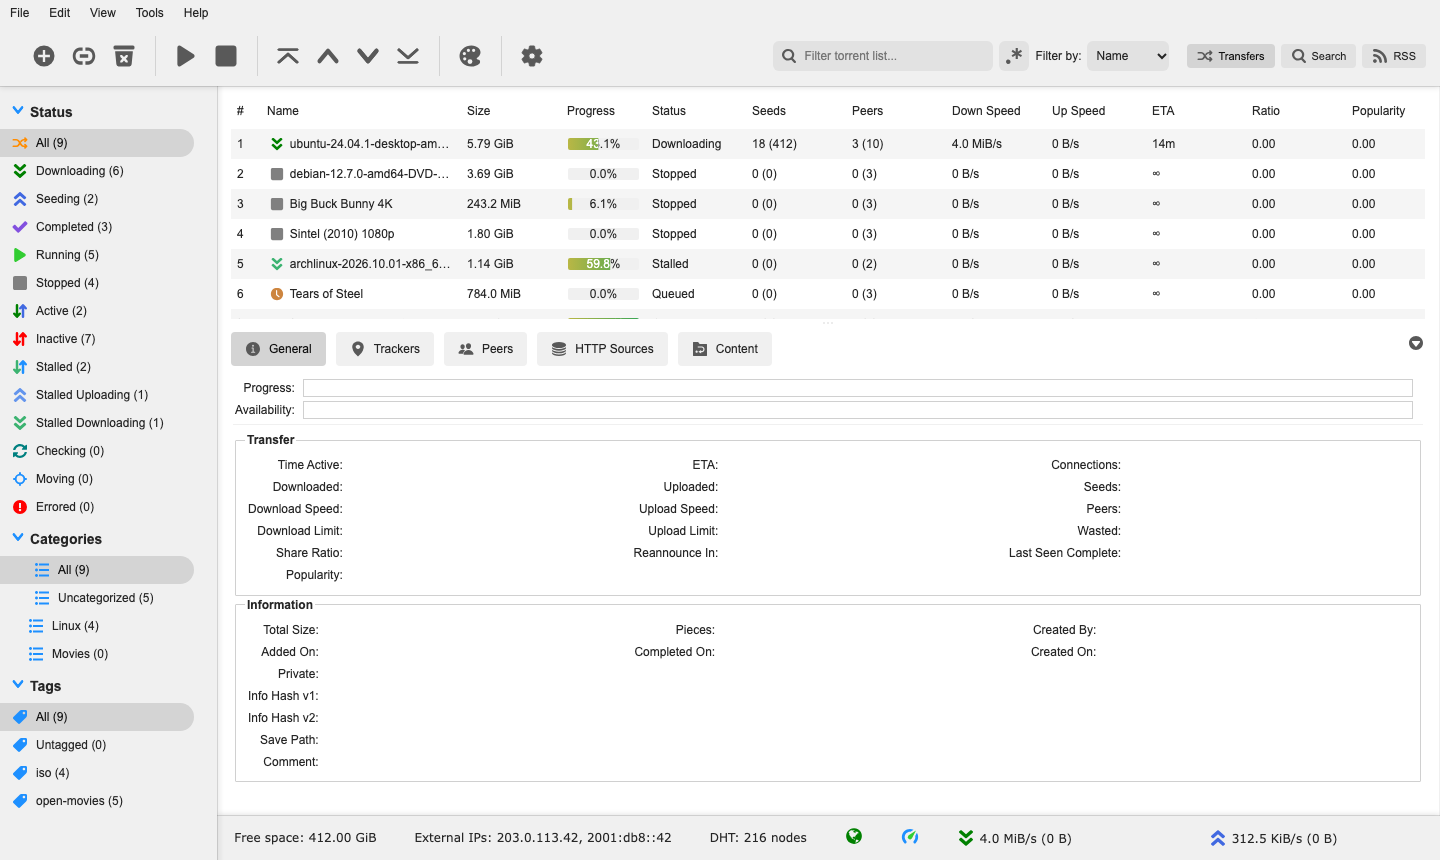
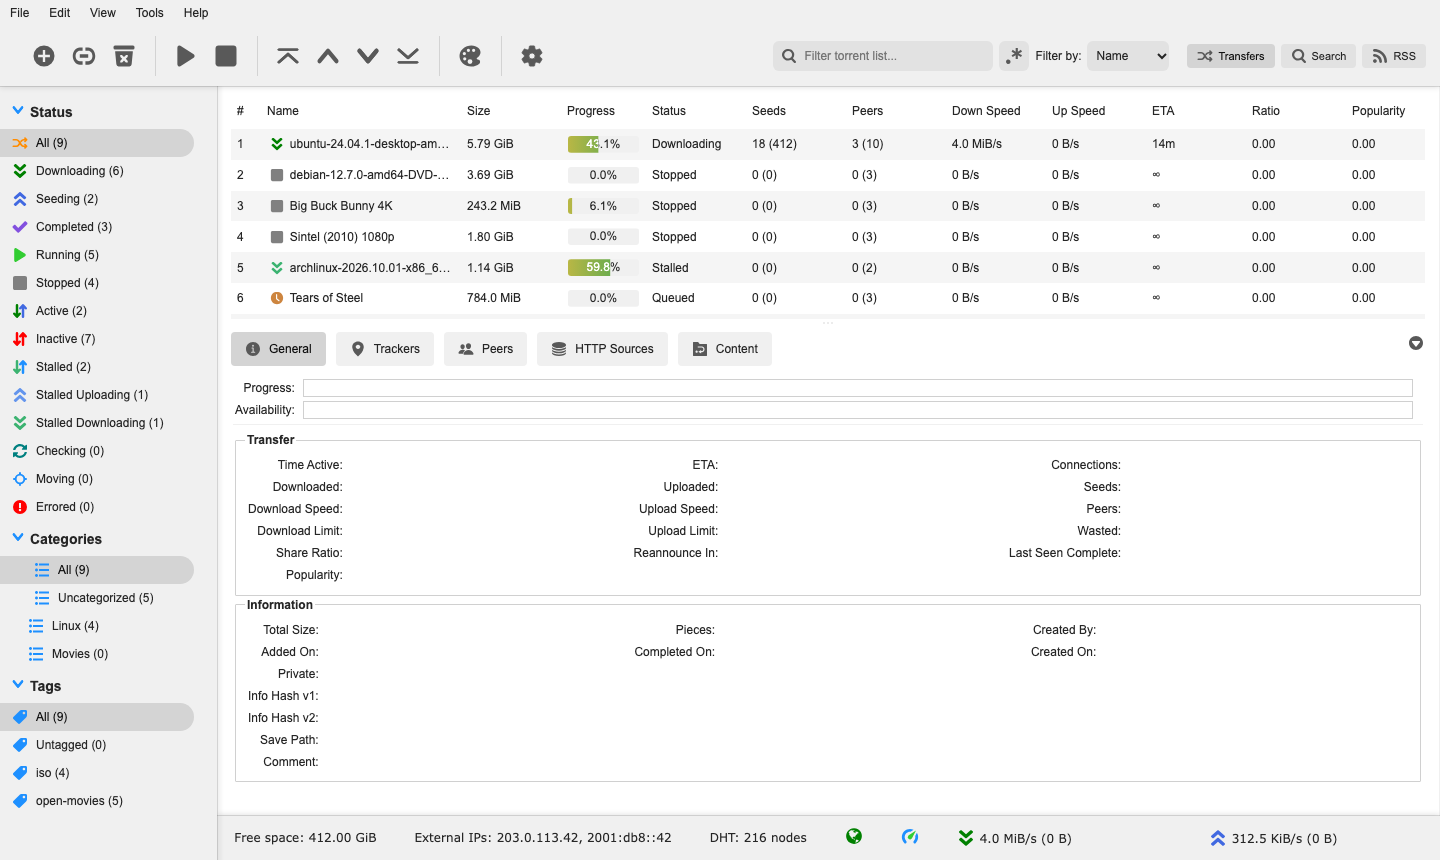
Taller progress bars
The stock script fixes the bar at 12px inside its shadow root, so the
element is scaled with zoom and its text scaled back. Screenshots retaken.

diff --git a/css/ezqbit.css b/css/ezqbit.css
@@ -312,6 +312,12 @@ progress-bar {
 
     border-radius: 3px;
     overflow: hidden;
+
+    /* Taller bar. The script fixes the height at 12px inside the shadow root, out of reach
+       of a stylesheet, so the whole element is scaled instead (12px → 17px) and the text
+       scaled back down to stay the same size. */
+    font-size: calc(100% / 1.4);
+    zoom: 1.4;
 }
 
 /* ---------------------------------------------------------------
